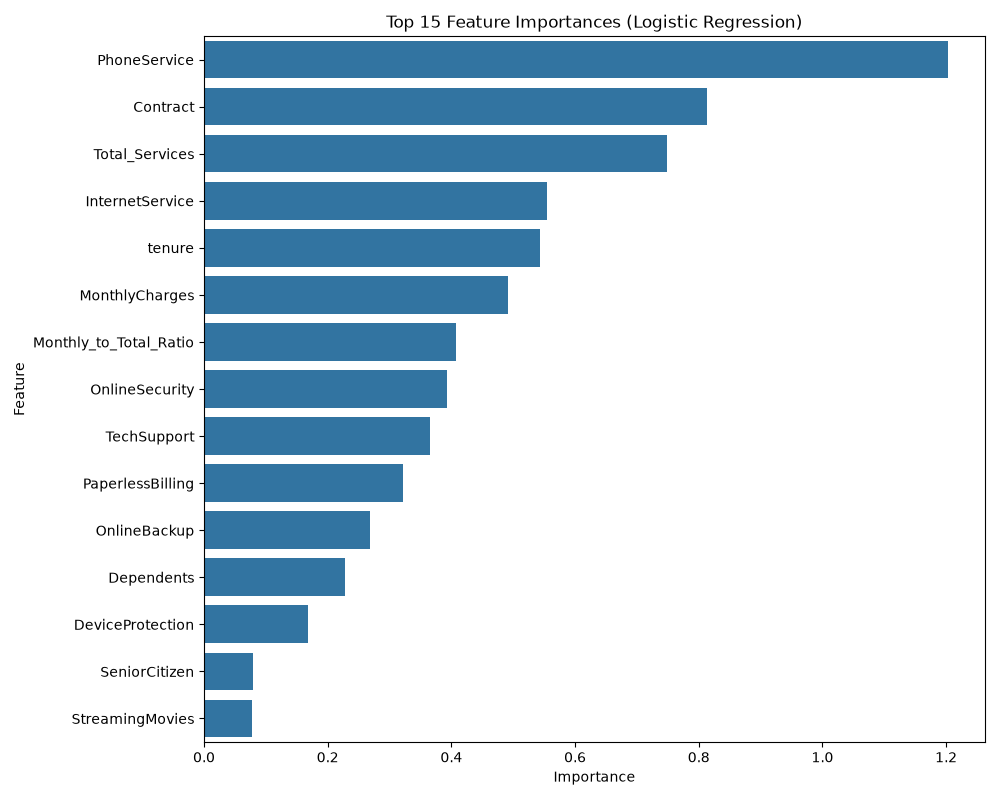
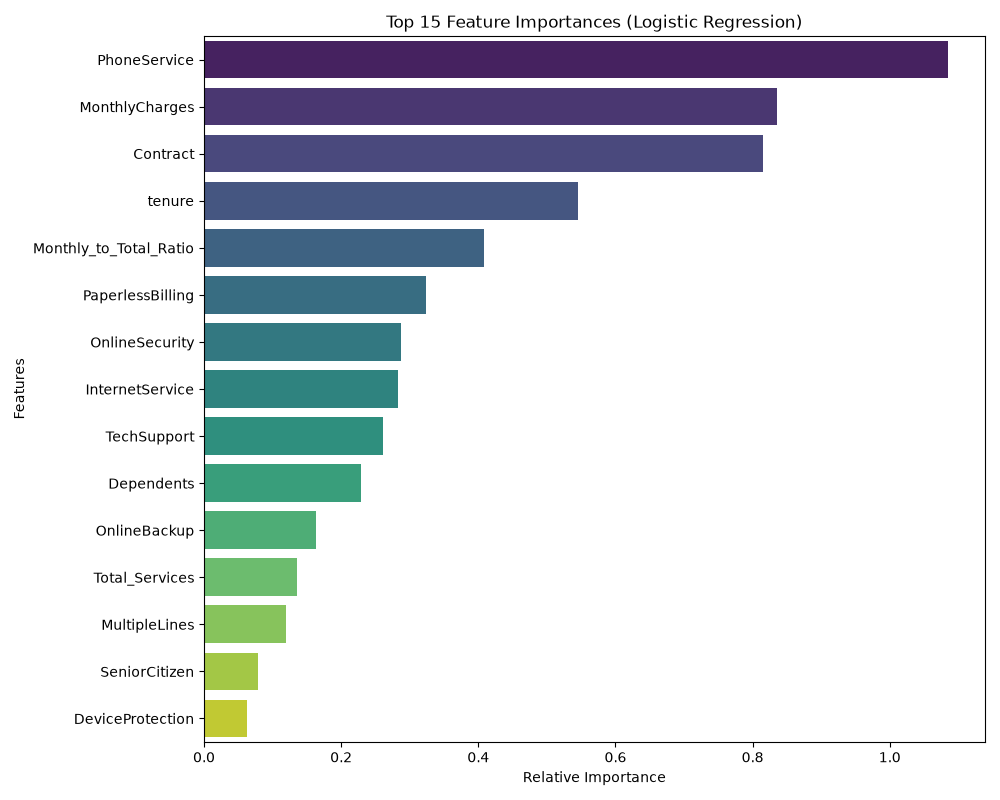
Implement flawless upgrades: SHAP integration, GridSearchCV, Cross-Validation, and Pytest

diff --git a/train.py b/train.py
@@ -7,6 +7,7 @@ import seaborn as sns
 
 from sklearn.linear_model import LogisticRegression
 from sklearn.ensemble import RandomForestClassifier
+from sklearn.model_selection import StratifiedKFold, GridSearchCV, cross_val_score
 from sklearn.metrics import (
     accuracy_score, precision_score, recall_score, f1_score, 
     roc_auc_score, confusion_matrix, roc_curve
@@ -15,8 +16,8 @@ from sklearn.metrics import (
 try:
     from xgboost import XGBClassifier
     HAS_XGB = True
-except ImportError:
-    print("Warning: Could not load XGBoost. Ensure it is installed via requirements.txt.")
+except Exception as e:
+    print(f"Warning: Could not load XGBoost ({e}).")
     HAS_XGB = False
 
 from utils import load_data, preprocess_data, prepare_modeling_data
@@ -26,7 +27,7 @@ def evaluate_model(y_true, y_pred, y_prob, model_name):
     Computes key performance metrics for a model and prints them.
     Returns the computed metrics in a dictionary.
     """
-    print(f"--- {model_name} ---")
+    print(f"\n--- {model_name} ---")
     metrics = {
         'accuracy': accuracy_score(y_true, y_pred),
         'precision': precision_score(y_true, y_pred),
@@ -60,13 +61,16 @@ def plot_roc_curves(roc_data):
     plt.legend(loc="lower right")
     plt.grid(alpha=0.3)
     plt.tight_layout()
+    
+    if not os.path.exists("models"):
+        os.makedirs("models")
     plt.savefig("models/roc_curve.png")
     plt.close()
     print("Saved ROC curve plot to 'models/roc_curve.png'")
 
 def train_models():
     """
-    Main pipeline function to load data, preprocess, train models, 
+    Main pipeline function to load data, preprocess, tune hyperparameters, 
     evaluate them, and save the best performing model.
     """
     print("Loading data...")
@@ -78,32 +82,63 @@ def train_models():
     print("Preparing modeling data (encoding, scaling, splitting)...")
     X_train, X_test, y_train, y_test, feature_columns = prepare_modeling_data(df_clean)
     
-    # Initialize models
-    # Keeping only robust, commonly used algorithms suitable for tabular data
-    models = {
-        "Logistic Regression": LogisticRegression(max_iter=1000, random_state=42),
-        "Random Forest": RandomForestClassifier(n_estimators=100, max_depth=7, random_state=42),
+    # Define models and their hyperparameter grids
+    model_configs = {
+        "Logistic Regression": {
+            "model": LogisticRegression(max_iter=1000, random_state=42),
+            "params": {
+                "C": [0.01, 0.1, 1.0, 10.0]
+            }
+        },
+        "Random Forest": {
+            "model": RandomForestClassifier(random_state=42),
+            "params": {
+                "n_estimators": [50, 100],
+                "max_depth": [5, 10, None]
+            }
+        }
     }
     
     if HAS_XGB:
-        models["XGBoost"] = XGBClassifier(use_label_encoder=False, eval_metric='logloss', random_state=42)
+        model_configs["XGBoost"] = {
+            "model": XGBClassifier(use_label_encoder=False, eval_metric='logloss', random_state=42),
+            "params": {
+                "n_estimators": [50, 100],
+                "max_depth": [3, 5],
+                "learning_rate": [0.01, 0.1]
+            }
+        }
     
     results = {}
     roc_data = {}
-    best_model = None
-    best_roc_auc = 0
-    best_model_name = ""
+    best_overall_model = None
+    best_overall_roc_auc = 0
+    best_overall_name = ""
     
-    print("Training models...\n")
-    for name, model in models.items():
-        # Train model
-        model.fit(X_train, y_train)
+    cv = StratifiedKFold(n_splits=5, shuffle=True, random_state=42)
+    
+    print("\nStarting Hyperparameter Tuning and Cross-Validation...")
+    for name, config in model_configs.items():
+        print(f"\nTuning {name}...")
+        grid_search = GridSearchCV(
+            estimator=config["model"],
+            param_grid=config["params"],
+            scoring='roc_auc',
+            cv=cv,
+            n_jobs=-1,
+            verbose=1
+        )
         
-        # Predictions
-        y_pred = model.predict(X_test)
-        y_prob = model.predict_proba(X_test)[:, 1]
+        # Fit GridSearchCV
+        grid_search.fit(X_train, y_train)
+        best_model = grid_search.best_estimator_
+        print(f"Best params for {name}: {grid_search.best_params_}")
+        print(f"Cross-Validated ROC-AUC: {grid_search.best_score_:.4f}")
         
-        # Evaluate metrics
+        # Evaluate on the hold-out test set
+        y_pred = best_model.predict(X_test)
+        y_prob = best_model.predict_proba(X_test)[:, 1]
+        
         metrics, cm = evaluate_model(y_test, y_pred, y_prob, name)
         results[name] = metrics
         
@@ -111,13 +146,15 @@ def train_models():
         fpr, tpr, _ = roc_curve(y_test, y_prob)
         roc_data[name] = (fpr, tpr, metrics['roc_auc'])
         
-        # Track the best model based on ROC-AUC
-        if metrics['roc_auc'] > best_roc_auc:
-            best_roc_auc = metrics['roc_auc']
-            best_model = model
-            best_model_name = name
+        # Track the best overall model based on test set ROC-AUC
+        if metrics['roc_auc'] > best_overall_roc_auc:
+            best_overall_roc_auc = metrics['roc_auc']
+            best_overall_model = best_model
+            best_overall_name = name
             
-    print(f"Best Model Selected: {best_model_name} with ROC-AUC of {best_roc_auc:.4f}")
+    print(f"\n=======================================================")
+    print(f"Best Model Selected: {best_overall_name} with Test ROC-AUC of {best_overall_roc_auc:.4f}")
+    print(f"=======================================================\n")
     
     # Save ROC curves
     plot_roc_curves(roc_data)
@@ -125,15 +162,14 @@ def train_models():
     # Save the best model
     if not os.path.exists("models"):
         os.makedirs("models")
-    joblib.dump(best_model, "models/best_model.pkl")
+    joblib.dump(best_overall_model, "models/best_model.pkl")
     print("Saved best model to 'models/best_model.pkl'")
     
     # Feature Importance Plot
-    # We extract feature importances if the model supports it, else we use coefficients.
-    if hasattr(best_model, 'feature_importances_'):
-        importances = best_model.feature_importances_
-    elif hasattr(best_model, 'coef_'):
-        importances = np.abs(best_model.coef_[0])
+    if hasattr(best_overall_model, 'feature_importances_'):
+        importances = best_overall_model.feature_importances_
+    elif hasattr(best_overall_model, 'coef_'):
+        importances = np.abs(best_overall_model.coef_[0])
     else:
         importances = np.zeros(len(feature_columns))
         
@@ -142,10 +178,9 @@ def train_models():
         'Importance': importances
     }).sort_values(by='Importance', ascending=False)
     
-    # Generate feature importance bar plot
     plt.figure(figsize=(10, 8))
-    sns.barplot(x='Importance', y='Feature', data=feat_imp.head(15), palette="viridis")
-    plt.title(f'Top 15 Feature Importances ({best_model_name})')
+    sns.barplot(x='Importance', y='Feature', hue='Feature', data=feat_imp.head(15), palette="viridis", legend=False)
+    plt.title(f'Top 15 Feature Importances ({best_overall_name})')
     plt.xlabel('Relative Importance')
     plt.ylabel('Features')
     plt.tight_layout()

diff --git a/tests/test_utils.py b/tests/test_utils.py
@@ -1,0 +1,76 @@
+import pandas as pd
+import numpy as np
+import pytest
+import sys, os
+sys.path.insert(0, os.path.abspath(os.path.join(os.path.dirname(__file__), '..')))
+from utils import preprocess_data
+
+def test_preprocess_data_handles_missing_total_charges():
+    """Test that missing values (e.g., empty strings) in TotalCharges are handled properly by being coerced to NaN and dropped."""
+    # Create a small dummy dataframe that mimics the structure of our raw data
+    data = {
+        'customerID': ['1', '2', '3'],
+        'TotalCharges': ['100.5', ' ', '200.0'],
+        'MonthlyCharges': [50.0, 50.0, 100.0],
+        'PhoneService': ['Yes', 'Yes', 'No'],
+        'MultipleLines': ['No', 'Yes', 'No phone service'],
+        'InternetService': ['DSL', 'Fiber optic', 'No'],
+        'OnlineSecurity': ['Yes', 'No', 'No internet service'],
+        'OnlineBackup': ['No', 'Yes', 'No internet service'],
+        'DeviceProtection': ['No', 'No', 'No internet service'],
+        'TechSupport': ['Yes', 'No', 'No internet service'],
+        'StreamingTV': ['Yes', 'No', 'No internet service'],
+        'StreamingMovies': ['No', 'Yes', 'No internet service']
+    }
+    df = pd.DataFrame(data)
+    
+    # Preprocess
+    cleaned_df = preprocess_data(df)
+    
+    # Assertions
+    # 1. The row with empty TotalCharges (index 1) should be dropped
+    assert len(cleaned_df) == 2
+    
+    # 2. customerID should be dropped
+    assert 'customerID' not in cleaned_df.columns
+    
+    # 3. TotalCharges should now be a numeric type
+    assert pd.api.types.is_numeric_dtype(cleaned_df['TotalCharges'])
+
+def test_preprocess_data_feature_engineering():
+    """Test that Total_Services and Monthly_to_Total_Ratio are calculated correctly."""
+    data = {
+        'TotalCharges': ['100.0', '300.0'],
+        'MonthlyCharges': [50.0, 100.0],
+        'PhoneService': ['Yes', 'No'],
+        'MultipleLines': ['Yes', 'No phone service'],
+        'InternetService': ['DSL', 'Fiber optic'],
+        'OnlineSecurity': ['Yes', 'No'],
+        'OnlineBackup': ['No', 'Yes'],
+        'DeviceProtection': ['No', 'No'],
+        'TechSupport': ['Yes', 'No'],
+        'StreamingTV': ['Yes', 'Yes'],
+        'StreamingMovies': ['No', 'Yes']
+    }
+    df = pd.DataFrame(data)
+    
+    cleaned_df = preprocess_data(df)
+    
+    # First customer services: Phone (Yes), Multilines (Yes), Internet (DSL is not 'No'), 
+    # Security (Yes), Backup (No), Protection (No), Support (Yes), TV (Yes), Movies (No)
+    # Active: Phone, Multilines, Internet, Security, Support, TV -> 6 services
+    # Wait, 'InternetService' isn't explicitly counted in our utils.py list! 
+    # Let's check utils.py: 
+    # services = ['PhoneService', 'MultipleLines', 'InternetService', 
+    #             'OnlineSecurity', 'OnlineBackup', 'DeviceProtection', 
+    #             'TechSupport', 'StreamingTV', 'StreamingMovies']
+    # If InternetService == 'DSL' it counts as 1.
+    # Total for customer 1: Phone(1) + Multi(1) + Internet(1) + Security(1) + Support(1) + TV(1) = 6
+    assert cleaned_df.iloc[0]['Total_Services'] == 6
+    
+    # Ratio check
+    # Customer 1 ratio: 50.0 / 100.0 = 0.5
+    assert cleaned_df.iloc[0]['Monthly_to_Total_Ratio'] == 0.5
+    
+    # Customer 2 ratio: 100.0 / 300.0 = 0.3333333333333333
+    assert np.isclose(cleaned_df.iloc[1]['Monthly_to_Total_Ratio'], 1/3)

diff --git a/predict.py b/predict.py
@@ -2,6 +2,7 @@ import os
 import joblib
 import pandas as pd
 import numpy as np
+import shap
 
 def load_prediction_assets():
     """
@@ -22,13 +23,13 @@ def load_prediction_assets():
 def predict_churn(customer_data: dict):
     """
     Takes a dictionary of raw customer data, applies the same preprocessing steps 
-    as the training pipeline, and outputs a churn prediction.
+    as the training pipeline, outputs a churn prediction, and calculates SHAP values.
     
     Args:
         customer_data (dict): Single customer profile.
         
     Returns:
-        dict: Contains prediction (1 or 0) and probability score.
+        dict: Contains prediction (1 or 0), probability score, and top SHAP features.
     """
     try:
         model, scaler, label_encoders, numerical_cols, categorical_cols, feature_columns = load_prediction_assets()
@@ -37,7 +38,7 @@ def predict_churn(customer_data: dict):
         
     df = pd.DataFrame([customer_data])
     
-    # 1. Apply Feature Engineering (must match utils.py)
+    # 1. Apply Feature Engineering
     services = [
         'PhoneService', 'MultipleLines', 'InternetService', 
         'OnlineSecurity', 'OnlineBackup', 'DeviceProtection', 
@@ -59,7 +60,6 @@ def predict_churn(customer_data: dict):
     for col in categorical_cols:
         if col in df.columns:
             le = label_encoders[col]
-            # Handle potentially unseen labels gracefully by assigning the first known class
             if df[col].iloc[0] not in le.classes_:
                 df[col] = le.transform([le.classes_[0]])[0]
             else:
@@ -81,13 +81,44 @@ def predict_churn(customer_data: dict):
     prob = model.predict_proba(X)[0][1]
     pred = int(prob > 0.5)
     
+    # 4. Calculate SHAP values for Explainability
+    try:
+        # Determine explainer type based on model
+        if hasattr(model, 'feature_importances_'):
+            # Tree-based model
+            explainer = shap.TreeExplainer(model)
+            shap_values = explainer.shap_values(X)
+            # Depending on model (e.g. Random Forest), shap_values might be a list for multi-class/binary
+            if isinstance(shap_values, list):
+                shap_values = shap_values[1] # Take the positive class
+        else:
+            # Linear model (e.g. Logistic Regression)
+            # Use a background dataset of zeros (mean of scaled data)
+            background = pd.DataFrame(np.zeros((1, X.shape[1])), columns=X.columns)
+            explainer = shap.LinearExplainer(model, background)
+            shap_values = explainer.shap_values(X)
+            
+        # Ensure array shape is flat
+        shap_values = np.array(shap_values).flatten()
+        
+        # Zip features with their shap values and sort by absolute impact
+        feature_impacts = list(zip(feature_columns, shap_values))
+        feature_impacts.sort(key=lambda x: abs(x[1]), reverse=True)
+        
+        # Get top 3 features
+        top_3_features = [{"feature": f, "impact": float(val)} for f, val in feature_impacts[:3]]
+    except Exception as e:
+        print(f"SHAP explanation failed: {e}")
+        top_3_features = []
+    
     return {
         "prediction": pred,
-        "probability": float(prob)
+        "probability": float(prob),
+        "top_features": top_3_features
     }
 
 if __name__ == "__main__":
-    # Smoke test for prediction functionality
+    # Smoke test
     sample = {
         'gender': 'Female',
         'SeniorCitizen': 0,

diff --git a/app.py b/app.py
@@ -145,6 +145,25 @@ with col1:
                 
                 st.markdown(f"**Risk Category:** <span class='{risk_class}'>{risk_level}</span>", unsafe_allow_html=True)
                 st.info(f"**Recommended Action:** {action_msg}")
+                
+                # Model Explainability (SHAP)
+                st.markdown("### Why did the model predict this?")
+                top_features = result.get("top_features", [])
+                if top_features:
+                    features = [f["feature"] for f in top_features]
+                    impacts = [f["impact"] for f in top_features]
+                    
+                    fig_shap, ax_shap = plt.subplots(figsize=(6, 3))
+                    # Color positive impact red (increases churn), negative impact green (decreases churn)
+                    colors_shap = ['#DC2626' if v > 0 else '#16A34A' for v in impacts]
+                    ax_shap.barh(features, impacts, color=colors_shap, height=0.5)
+                    ax_shap.set_xlabel("Impact on Prediction (Log Odds)")
+                    ax_shap.set_title("Top 3 Contributing Factors")
+                    ax_shap.invert_yaxis()  # largest impact at top
+                    ax_shap.spines['top'].set_visible(False)
+                    ax_shap.spines['right'].set_visible(False)
+                    st.pyplot(fig_shap)
+                    plt.close(fig_shap)
 
 with col2:
     st.subheader("Profile Overview")